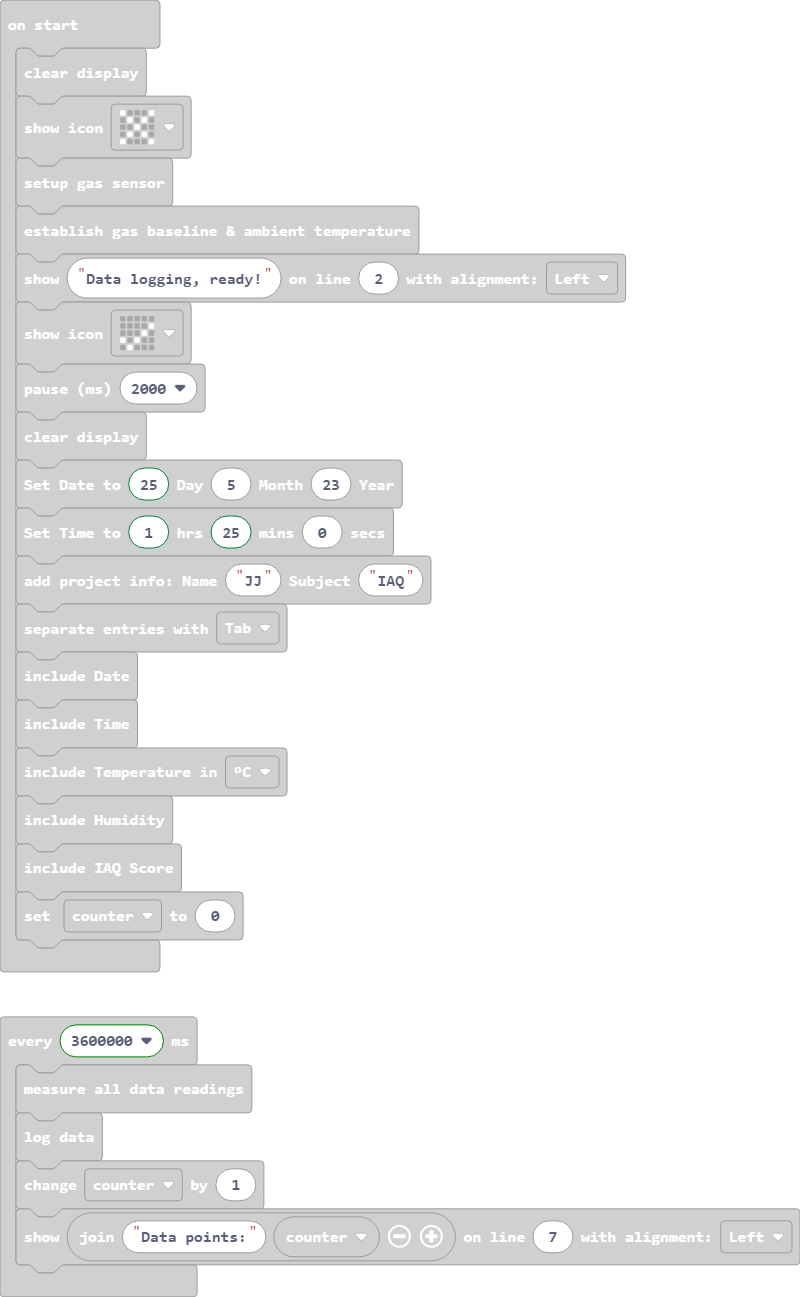
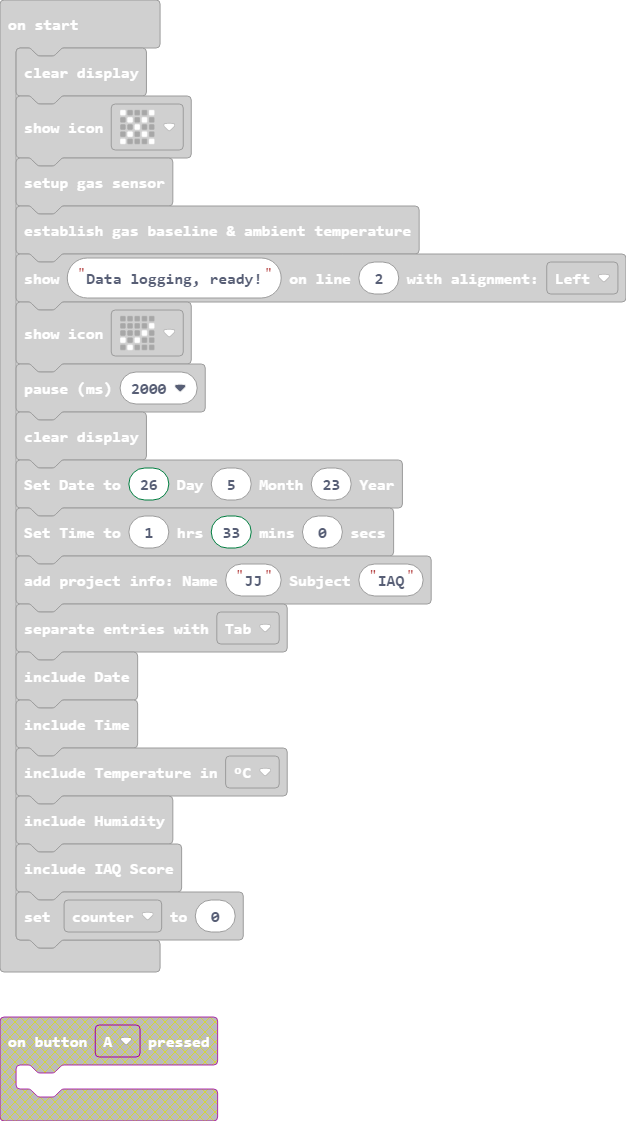
Update main.blocks, main.ts

Changed region(s): [[0.0, 0.0, 1.0, 1.0]]

diff --git a/main.ts b/main.ts
@@ -1,6 +1,3 @@
-input.onButtonPressed(Button.A, function () {
-	
-})
 input.onButtonPressed(Button.AB, function () {
     kitronik_air_quality.show("Erasing memory", 6, kitronik_air_quality.ShowAlign.Left)
     kitronik_air_quality.eraseData()
@@ -23,8 +20,8 @@ kitronik_air_quality.show("Data logging, ready!", 2, kitronik_air_quality.ShowAl
 basic.showIcon(IconNames.Yes)
 basic.pause(2000)
 kitronik_air_quality.clear()
-kitronik_air_quality.setDate(25, 5, 23)
-kitronik_air_quality.setTime(1, 25, 0)
+kitronik_air_quality.setDate(26, 5, 23)
+kitronik_air_quality.setTime(1, 33, 0)
 kitronik_air_quality.addProjectInfo("JJ", "IAQ")
 kitronik_air_quality.selectSeparator(kitronik_air_quality.Separator.tab)
 kitronik_air_quality.includeDate()
